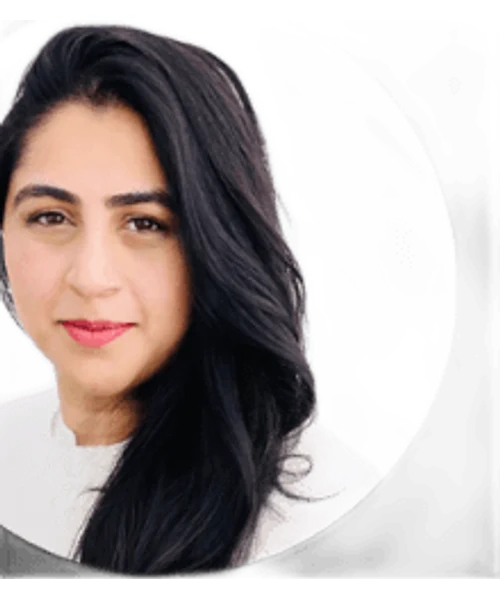
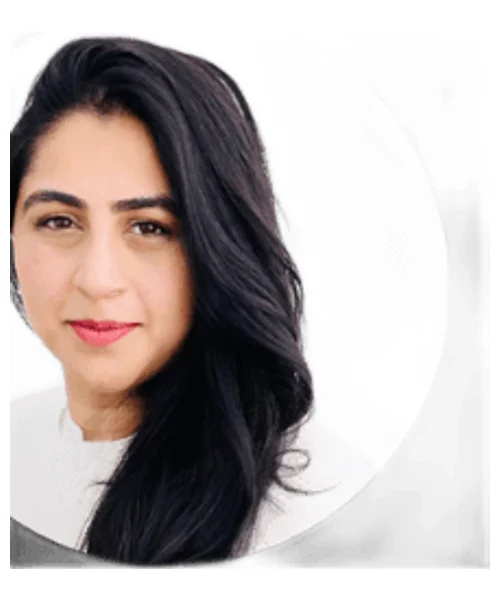
remove dots; revert wide edge-to-edge (Vish/Kieran preserved); Sana composited right; Jaz cover 1:1; wide slot bumped
Slider dots hidden at every breakpoint (was hidden on mobile only) —
user wanted them gone.

Reverted the .slide-wide flex:1/height:auto CSS that had killed the
1:1 aspect on wide entries. That change was cropping Vish's and
Kieran's collages. Wide photos are back to fixed 1:1 aspect.

Wide media slot bumped 55% → 65% on desktop so Reece and the other
wide entries read visibly bigger inside the card without breaking the
collage aspect.

Jaz — regenerated as a plain cover 800x800 from the rotated source so
the 1:1 slot fills edge-to-edge without any letterboxed white gap.
Removed the fit: "contain" override on his Quote entry.

Sana — regenerated via manual composite: scale her trimmed portrait to
480x537 and place her anchored to the RIGHT edge of a 500x600 white
canvas (10px margin). Now visually right-aligned in the desktop card,
not left-of-frame like before.

diff --git a/app/globals.css b/app/globals.css
@@ -180,8 +180,7 @@ iframe.emb { width: 100%; aspect-ratio: 16/9; border: 0; display: block; }
   .track:not(.track-q) { max-width: 640px; margin-left: auto; margin-right: auto; }
   .track:not(.track-q) .slide { flex: 0 0 100%; }
 }
-.dots { display: flex; gap: 7px; justify-content: center; margin-top: 22px; flex-wrap: wrap; }
-@media (max-width: 819px) { .dots { display: none; } }
+.dots { display: none; }
 .dot { width: 44px; height: 44px; padding: 0; background: transparent; border: 0; cursor: pointer; display: flex; align-items: center; justify-content: center; }
 .dot::before { content: ""; width: 7px; height: 7px; border-radius: 50%; background: #d5d2cc; display: block; transition: .2s; }
 .dot.on::before { background: var(--gold); width: 22px; border-radius: 4px; }
@@ -214,13 +213,8 @@ iframe.emb { width: 100%; aspect-ratio: 16/9; border: 0; display: block; }
 .qc-media { background: #fff; display: flex; flex-direction: column; padding: 0; }
 @media (min-width: 820px) { .qc-media { flex: 0 0 38%; } }
 /* Wide entries (Vish, Kieran, Jaz, Reece) get more photo width on desktop
-   and the photo fills the full media column height (no white below the
-   image where the caption would sit). Caption still shown, just tighter. */
-@media (min-width: 820px) {
-  .slide-wide .qc-media { flex: 0 0 55%; }
-  .slide-wide .qc-photo, .slide-wide .qc-photo-wide { aspect-ratio: auto; flex: 1; height: auto; }
-  .slide-wide .qc-photo img, .slide-wide .qc-photo-wide img { height: 100%; object-fit: cover; }
-}
+   so the collage/paired image reads bigger. Photo aspect stays 1:1. */
+@media (min-width: 820px) { .slide-wide .qc-media { flex: 0 0 65%; } }
 /* Photo aspect: square on mobile (compact, face visible), portrait 4:5 on
    desktop (more editorial). Wide collages stay 1:1 at every breakpoint.
    White background so bg-removed portraits blend seamlessly with .qc-media */

diff --git a/app/page.tsx b/app/page.tsx
@@ -118,7 +118,7 @@ const QUOTES: Quote[] = [
   { photo: "/images/mani-konkon.webp", desktopOnly: true, name: "Mani Konkon", role: "Finance Director",
     metric: "Years of failed attempts, finally sustainable",
     quote: "It became apparent quickly why my years had not been successful. George's focus on a sustainable plan and execution has led to the biggest win for me, which is a shift in mentality around weight loss and healthy living." },
-  { photo: "/images/jaz.webp", wide: true, fit: "contain", name: "Jaz", role: "Property business owner",
+  { photo: "/images/jaz.webp", wide: true, name: "Jaz", role: "Property business owner",
     metric: "Down to 102kg — a weight he hadn't seen in four years",
     quote: "Mindset and fitness-wise, I'm the best I've ever been." },
   { photo: "/images/jacob.webp", name: "Jacob", role: "Journalist, financial publication, London",
